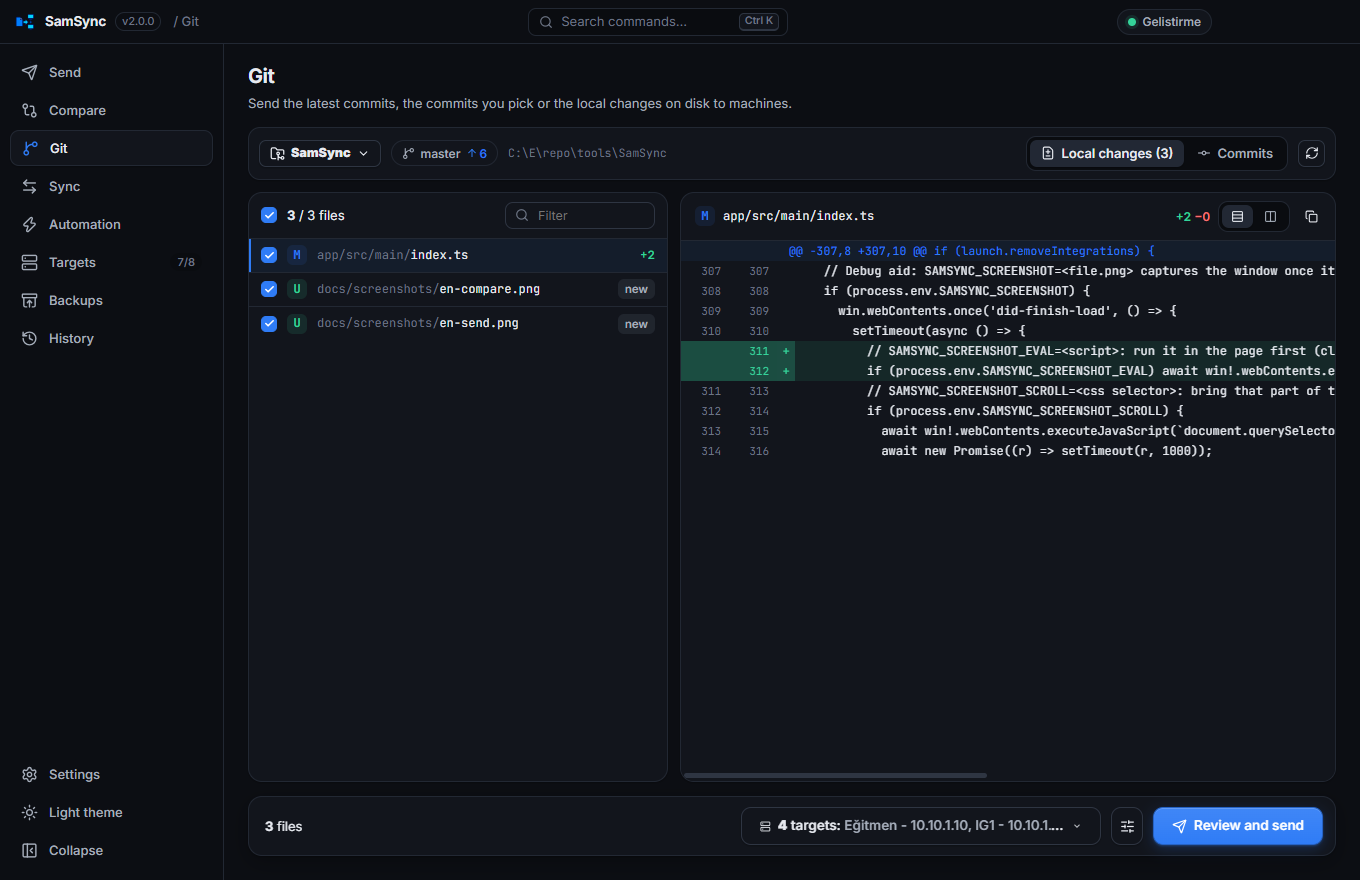
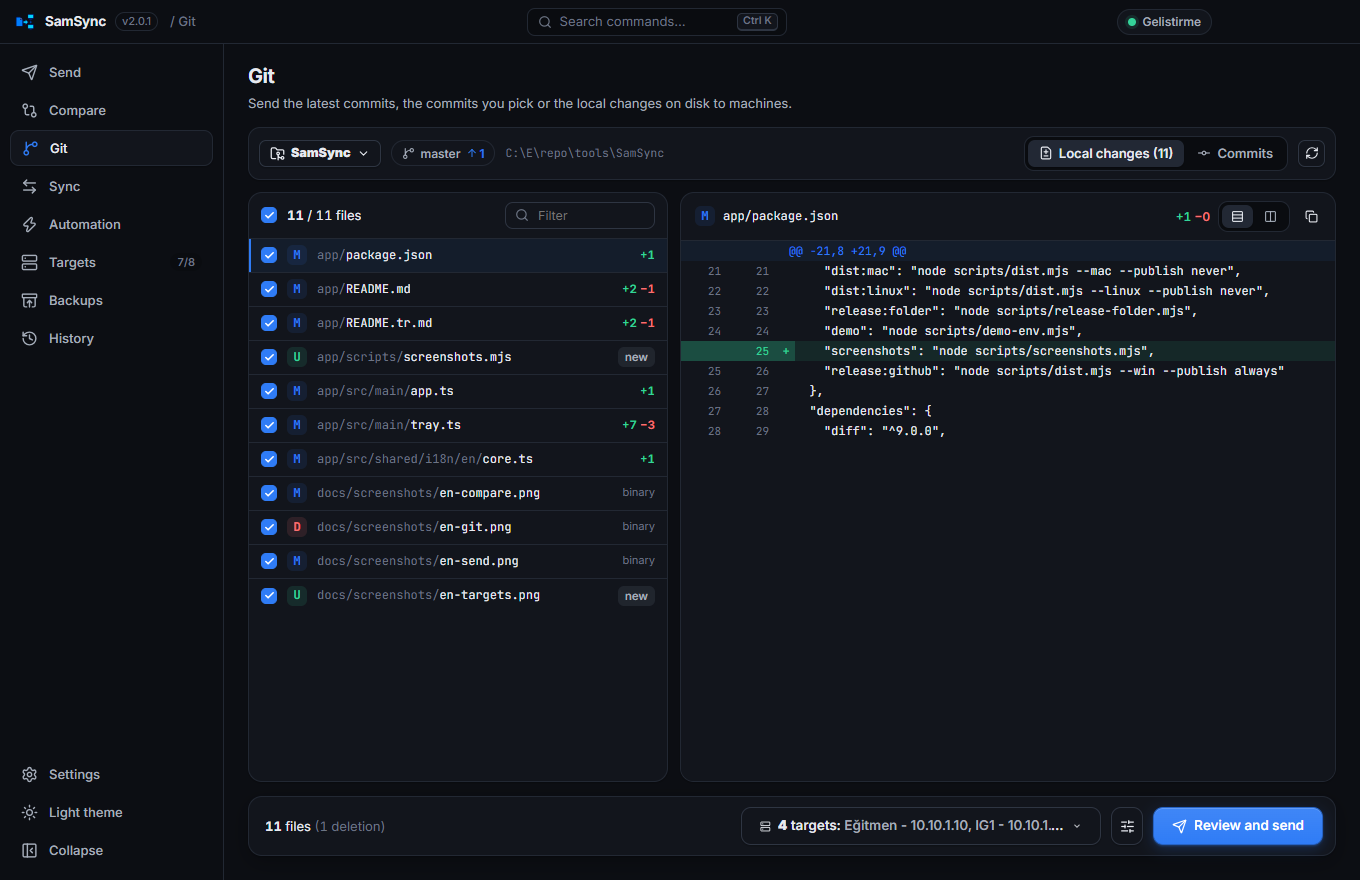
Refresh the README screenshots with a script, add the Targets page to the gallery, relay in the tray tooltip
`npm run screenshots` builds, seeds the demo with a quick send and a
relay with a fresh heartbeat, and captures all pages in both languages
into docs/screenshots. The tray tooltip says how many jobs the relay
here has taken.

diff --git a/app/src/main/tray.ts b/app/src/main/tray.ts
@@ -1,5 +1,5 @@
 import { Menu, Tray, nativeImage } from 'electron';
-import type { AutomationState, QuickSend } from '../shared/types';
+import type { AutomationState, QuickSend, RelayState } from '../shared/types';
 import { getLang, t } from '../shared/i18n';
 
 export interface TrayActions {
@@ -9,6 +9,8 @@ export interface TrayActions {
   /** The saved sends of this machine, for the "Hızlı gönder" submenu. */
   quickSends(): QuickSend[];
   runQuick(q: QuickSend): void;
+  /** The relay service here, when this machine is one (for the tooltip). */
+  relayState(): RelayState;
 }
 
 /** Notification area icon, shown while "keep running in the tray" is on. */
@@ -39,10 +41,12 @@ export class TrayManager {
     const busy = state.watches.some((w) => w.status === 'sending') || state.schedules.some((s) => s.running);
     const summary = t('{watches} izleme • {schedules} zamanlanmış iş', { watches, schedules });
     const quick = this.actions.quickSends();
-    const key = `${getLang()}|${state.paused}|${busy}|${summary}|${quick.map((q) => q.id + q.name).join(',')}`;
+    const relay = this.actions.relayState();
+    const relayText = relay.active ? ` • ${t('röle: {n} iş', { n: relay.jobs })}` : '';
+    const key = `${getLang()}|${state.paused}|${busy}|${summary}|${quick.map((q) => q.id + q.name).join(',')}|${relayText}`;
     if (key === this.lastKey) return;
     this.lastKey = key;
-    this.tray.setToolTip(`SamSync — ${state.paused ? t('otomasyon duraklatıldı') : busy ? t('gönderiliyor…') : summary}`);
+    this.tray.setToolTip(`SamSync — ${state.paused ? t('otomasyon duraklatıldı') : busy ? t('gönderiliyor…') : summary}${relayText}`);
     this.tray.setContextMenu(
       Menu.buildFromTemplate([
         { label: t('SamSync’i aç'), click: () => this.actions.show() },

diff --git a/app/src/shared/i18n/en/core.ts b/app/src/shared/i18n/en/core.ts
@@ -286,6 +286,7 @@ const d: Dict = {
   '{n} sa önce': pl('{n} hour ago', '{n} hours ago'),
   'Okunan boyut tutmuyor': 'The size read back does not match',
   'Hız sınaması': 'Speed test',
+  'röle: {n} iş': pl('relay: {n} job', 'relay: {n} jobs'),
   '{name}: yazma {w} MB/sn, okuma {r} MB/sn, gecikme {ms} ms': '{name}: write {w} MB/s, read {r} MB/s, latency {ms} ms',
   'Bu pakette GitHub güncelleme adresi yok.': 'This package has no GitHub update address.',
   'latest.yml içinde version/path yok': 'latest.yml has no version/path',

diff --git a/app/src/main/app.ts b/app/src/main/app.ts
@@ -152,6 +152,7 @@ if (launch.removeIntegrations) {
       showWindow();
       launches.add(quickRequest(q), true);
     },
+    relayState: () => service.relay?.state() ?? { active: false, jobs: 0 },
   });
 
   const updater = new Updater((state) => emit({ type: 'update', state }));

diff --git a/app/README.tr.md b/app/README.tr.md
@@ -14,7 +14,7 @@ Arayüz Türkçe ve İngilizcedir. Ayarlar → **Dil** altında bir dil seçilme
 | --- | --- |
 | ![Gönder](../docs/screenshots/tr-send.png) | ![Karşılaştır](../docs/screenshots/tr-compare.png) |
 | ![Git](../docs/screenshots/tr-git.png) | ![Senkron](../docs/screenshots/tr-sync.png) |
-| ![Otomasyon](../docs/screenshots/tr-automation.png) | |
+| ![Otomasyon](../docs/screenshots/tr-automation.png) | ![Hedefler](../docs/screenshots/tr-targets.png) |
 
 ## Kurulum
 
@@ -264,6 +264,7 @@ npm run dev          # Electron, sıcak yenilemeli
 npm test             # çekirdek testleri (gerçek dosya sistemi, git ve dosya izleme ile)
 npm run typecheck
 npm run demo -- .demo     # sahte hedef klasörleriyle demo ortamı + config (.demo/ git'e girmez)
+npm run screenshots       # README ekran görüntüleri, demodan, iki dilde (docs/screenshots)
 npm run web -- --user-data .demo/userdata   # çekirdek + arayüz tarayıcıda (http://localhost:5198)
 npm run dist:win     # kurulum + taşınabilir exe + zip
 ```

diff --git a/app/README.md b/app/README.md
@@ -14,7 +14,7 @@ The user interface is in Turkish and English. It follows the computer's display 
 | --- | --- |
 | ![Send](../docs/screenshots/en-send.png) | ![Compare](../docs/screenshots/en-compare.png) |
 | ![Git](../docs/screenshots/en-git.png) | ![Sync](../docs/screenshots/en-sync.png) |
-| ![Automation](../docs/screenshots/en-automation.png) | |
+| ![Automation](../docs/screenshots/en-automation.png) | ![Targets](../docs/screenshots/en-targets.png) |
 
 ## Installation
 
@@ -258,6 +258,7 @@ npm run dev          # Electron with hot reload
 npm test             # core tests (real file system, git and file watching)
 npm run typecheck
 npm run demo -- .demo     # demo environment with fake target folders + config (.demo/ is not committed)
+npm run screenshots       # the README screenshots from the demo, both languages (docs/screenshots)
 npm run web -- --user-data .demo/userdata   # core + UI in a browser (http://localhost:5198)
 npm run dist:win     # installer + portable exe + zip
 ```
